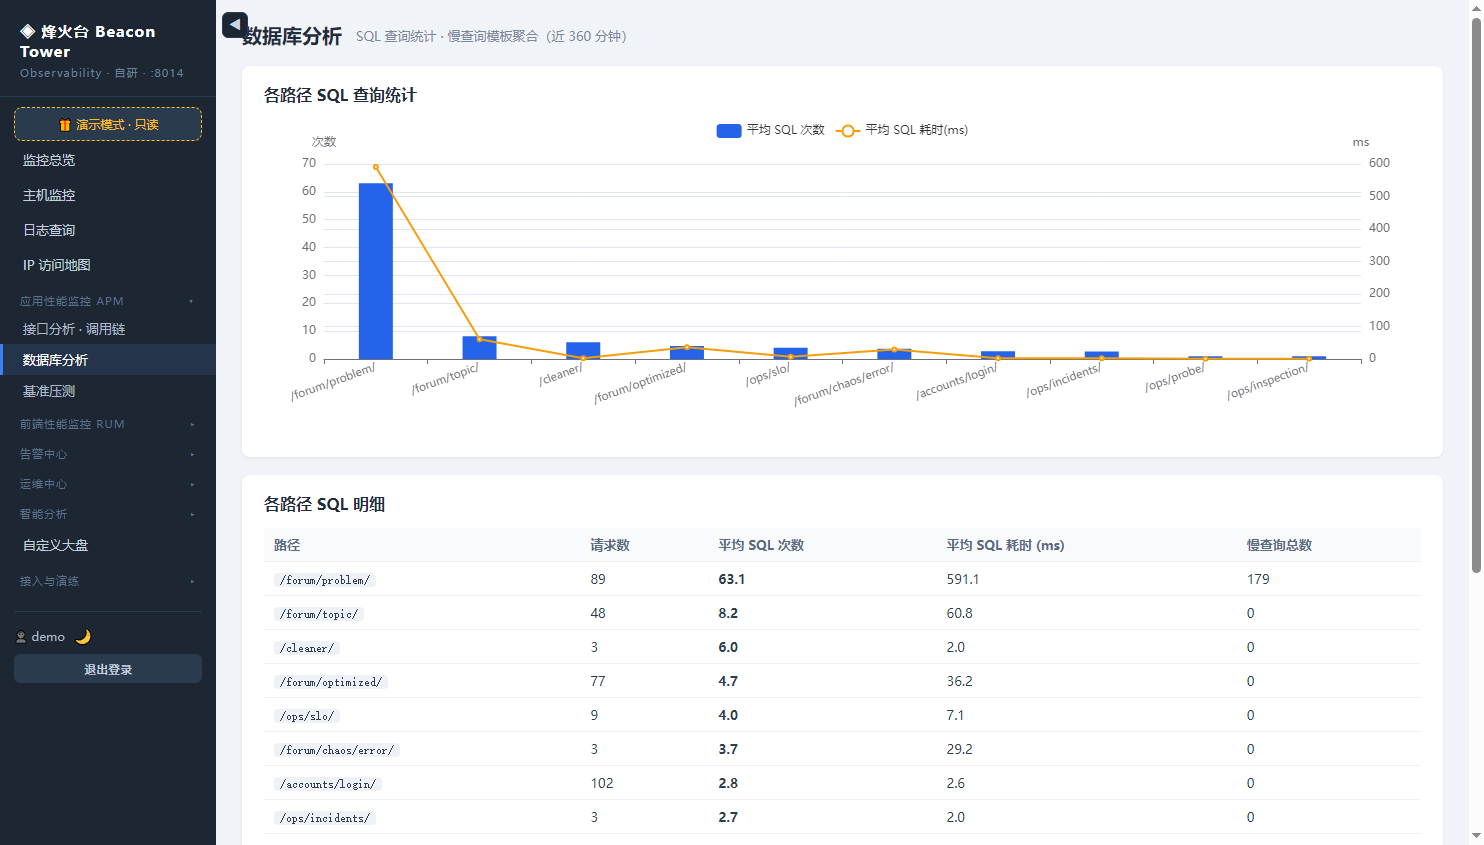
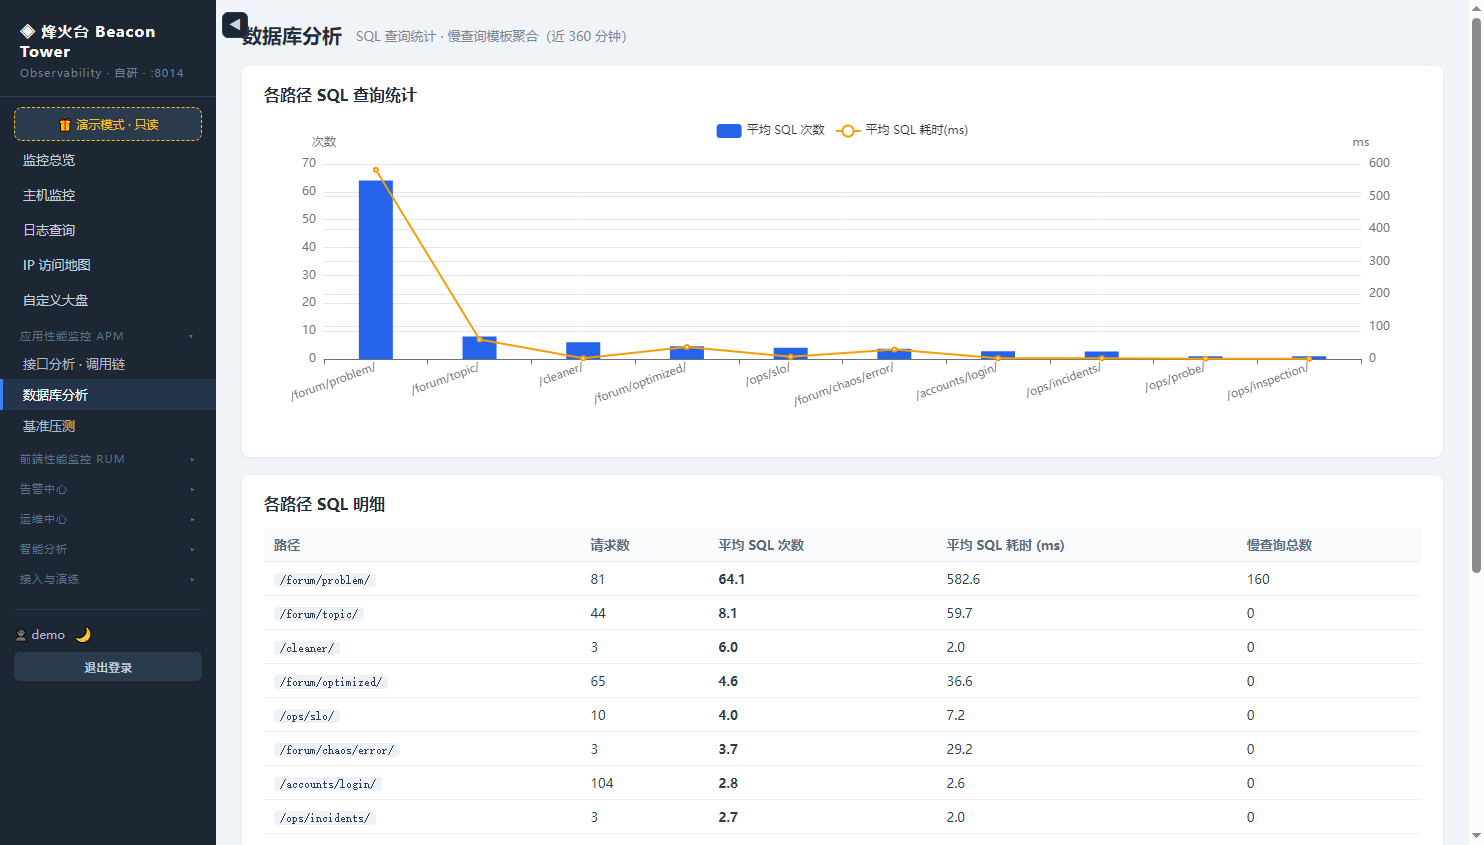
docs: 按新侧栏顺序重拍截图，并注明用 scripts/shoot_docs.mjs 复跑

Changed region(s): [[0.0, 0.3385, 0.093, 0.7077], [0.0, 0.7385, 0.093, 0.8], [0.248, 0.1846, 0.279, 0.2462]]

diff --git a/README.md b/README.md
@@ -40,6 +40,9 @@
 **[拨测监控](docs/screenshots/probe.png)**、**[清理加速中心](docs/screenshots/cleaner.png)**
 （后两张是 staff 专属页面，截图取自侧边栏改版前）。
 
+改版后想重跑这套图：`node scripts/shoot_docs.mjs`（零依赖，Node ≥ 22 + 本机 Chrome，
+登录用的是登录页公开的只读演示账号；`only dashboard geo` 可只重拍指定几张）。
+
 ## 一、项目背景（从"性能监控"到"可观测平台"）
 
 本项目前身是一个 Django 性能监控与优化平台（内置问题论坛 + AST 诊断），解决的是
